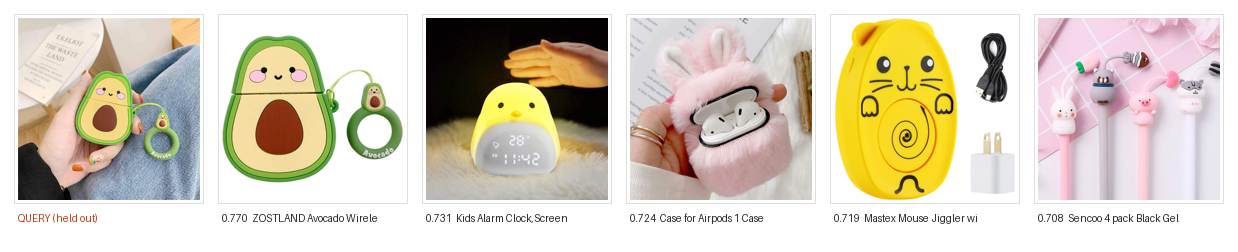
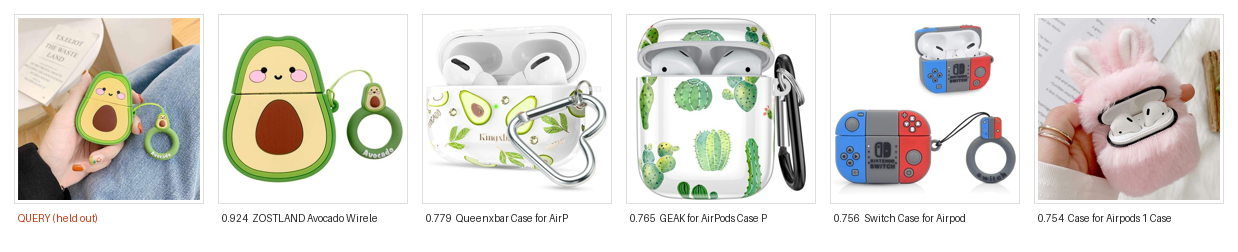
Serve SigLIP on /search and re-measure latency
Benchmarking put SigLIP well ahead on quality (recall@5 0.327 -> 0.690), so it
now backs the endpoint. embeddings.py still owns CLIP and is not dead code:
generate_embeddings fills the CLIP column with it, and evaluate.py needs it for
the photo filter and near-duplicate guard, which must stay on CLIP so swapping
the retrieval encoder cannot change eval-set membership.

main_baseline was moved to SigLIP as well. Running CLIP there and SigLIP here
would have conflated the model swap with the concurrency fix; the benchmark has
to vary the endpoint alone.

Re-measured, 250 requests per level:

  concurrency   baseline p95   current p95   throughput
  1              124 ms         145 ms       8.8 -> 7.4 req/s
  4              738 ms         434 ms       7.9 -> 14.3 req/s
  8             1002 ms         682 ms       8.6 -> 16.1 req/s
  16            3462 ms        1231 ms       7.5 -> 15.9 req/s

The single-request case is now 17% slower — the honest cost of pinning
inference to one thread, which SigLIP's heavier forward pass no longer hides.
It wins 32-64% from four concurrent upward, which is the case a server is
judged on, but it is a trade rather than a free win.

Absolute latency is worse than CLIP throughout (p50 60 ms -> 134 ms, peak
throughput ~27 -> ~16 req/s). Returning the right product twice as often is
worth 70 ms here.

diff --git a/backend/src/main.py b/backend/src/main.py
@@ -15,7 +15,7 @@ from sqlalchemy.orm import defer
 from auth import hash_password, verify_password, create_access_token
 from database import SessionLocal, init_db
 from models import User, Product
-from embeddings import gen_embeddings
+from embeddings_siglip import gen_embeddings
 
 app = FastAPI(
     title = "DormDeals",
@@ -49,13 +49,13 @@ def startup():
     init_db()
     print("Database initialized!")
 
-    #CLIP is already loaded at module level by embeddings
-    print("CLIP model ready!")
+    #SigLIP is already loaded at module level by embeddings_siglip
+    print("SigLIP model ready!")
 
     #load FAISS index and id map
     print("Loading FAISS index...")
-    faiss_index = faiss.read_index(str(DATA_DIR / "products.index"))
-    id_map = np.load(str(DATA_DIR / "id_map.npy"))
+    faiss_index = faiss.read_index(str(DATA_DIR / "products_siglip.index"))
+    id_map = np.load(str(DATA_DIR / "id_map_siglip.npy"))
     print(f"FAISS index loaded ({faiss_index.ntotal} vectors)")
 
 #response models
@@ -161,7 +161,7 @@ async def search(file: UploadFile = File(...), k: int = Query(5, ge=1, le=50)):
     contents = await file.read()
     img = Image.open(BytesIO(contents)).convert("RGB")
 
-    # CLIP inference is CPU-heavy; run it off the event loop so other requests aren't blocked
+    # encoder inference is CPU-heavy; run it off the event loop so other requests aren't blocked
     embedding = await run_in_threadpool(gen_embeddings, img)
     query = embedding[np.newaxis, :]
     scores, positions = faiss_index.search(query, k=k)

diff --git a/backend/src/embeddings_siglip.py b/backend/src/embeddings_siglip.py
@@ -1,0 +1,36 @@
+"""
+Owns the SigLIP model for the served endpoint.
+
+SigLIP replaced CLIP on /search after benchmarking the two on an identical
+held-out set: recall@5 0.327 -> 0.690, MRR 0.269 -> 0.594 (see results/).
+It costs roughly 4x the compute per image — 196 patches at patch16/224 against
+CLIP's 49 — which is why the latency benchmark was re-run after the swap.
+
+embeddings.py still owns CLIP. It is not dead code: generate_embeddings.py
+fills the CLIP column with it, and evaluate.py uses it for the photo filter and
+near-duplicate guard, which must stay on CLIP so that swapping the retrieval
+encoder cannot change which queries are in the eval set.
+"""
+
+import numpy as np
+import torch
+import torch.nn.functional as F
+from transformers import AutoImageProcessor, SiglipVisionModel
+
+MODEL_ID = "google/siglip-base-patch16-224"
+
+#vision tower only — AutoProcessor would pull in SigLIP's SentencePiece
+#tokenizer, which is never used here
+model = SiglipVisionModel.from_pretrained(MODEL_ID)
+processor = AutoImageProcessor.from_pretrained(MODEL_ID)
+model.eval()  #eval mode disables dropout
+
+
+def gen_embeddings(img):
+    inputs = processor(images=img, return_tensors="pt")
+    with torch.no_grad():
+        outputs = model(**inputs)
+    normalized = F.normalize(outputs.pooler_output, p=2, dim=1)
+    #squeeze matches embeddings.gen_embeddings: (768,) for one image,
+    #(N, 768) for a batch. float32 because FAISS requires it.
+    return normalized.squeeze().numpy().astype(np.float32)

diff --git a/backend/src/main_baseline.py b/backend/src/main_baseline.py
@@ -10,6 +10,10 @@ Two deliberate flaws are preserved:
      blocks the asyncio event loop and no other request can even be parsed.
   2. one DB query per result (N+1), each loading the embedding blob it discards.
 
+It uses the same encoder and index as the current build on purpose. The
+benchmark must vary the endpoint implementation alone — running CLIP here and
+SigLIP there would conflate the model swap with the concurrency fix.
+
 Served by bench_latency.py; not part of the application.
 """
 
@@ -24,7 +28,7 @@ from PIL import Image
 from pydantic import BaseModel
 
 from database import SessionLocal, init_db
-from embeddings import gen_embeddings
+from embeddings_siglip import gen_embeddings
 from models import Product
 
 app = FastAPI(title="DormDeals (pre-optimisation baseline)")
@@ -39,8 +43,8 @@ id_map = None
 def startup():
     global faiss_index, id_map
     init_db()
-    faiss_index = faiss.read_index(str(DATA_DIR / "products.index"))
-    id_map = np.load(str(DATA_DIR / "id_map.npy"))
+    faiss_index = faiss.read_index(str(DATA_DIR / "products_siglip.index"))
+    id_map = np.load(str(DATA_DIR / "id_map_siglip.npy"))
     print(f"FAISS index loaded ({faiss_index.ntotal} vectors)")
 
 

diff --git a/backend/src/scripts/make_demo_figure.py b/backend/src/scripts/make_demo_figure.py
@@ -18,7 +18,7 @@ import numpy as np
 from PIL import Image, ImageDraw
 
 from database import SessionLocal
-from embeddings import gen_embeddings
+from embeddings_siglip import gen_embeddings
 from imgcache import fetch
 from models import Product
 
@@ -42,11 +42,11 @@ def tile(img, label, accent=(40, 40, 40)):
 
 
 def main():
-    index = faiss.read_index(str(DATA_DIR / "products.index"))
-    id_map = np.load(str(DATA_DIR / "id_map.npy"))
+    index = faiss.read_index(str(DATA_DIR / "products_siglip.index"))
+    id_map = np.load(str(DATA_DIR / "id_map_siglip.npy"))
 
     #reuse a query the eval already scored, so the figure matches the numbers
-    run = json.loads((DATA_DIR / "eval_clip.json").read_text())
+    run = json.loads((DATA_DIR / "eval_siglip.json").read_text())
     hit = next(r for r in run["records"] if r["rank"] == 1 and r["self_sim"] < 0.9)
 
     query_img = fetch(hit["url"])

diff --git a/README.md b/README.md
@@ -1,21 +1,25 @@
 # DormDeals
 
 Visual search for dorm essentials. Upload a photo of any item and get visually
-similar products from a catalog of 14,877 searchable items, ranked by CLIP
+similar products from a catalog of 14,873 searchable items, ranked by SigLIP
 embedding similarity.
 
 ![DormDeals search results](docs/demo.png)
 
 *A real query. The leftmost image is a held-out listing photo the index never
 saw; the five to its right are what came back, with cosine scores. Rank 1 is
-the correct product. Ranks 2-5 show the characteristic failure: CLIP matches
-shape and colour, so a yellow alarm clock and a mouse jiggler score highly
-against a yellow avocado case.*
+the correct product at 0.924, and all five results are AirPods cases.*
+
+*The same query under CLIP returned the correct product at 0.770 followed by a
+kids' alarm clock, a mouse jiggler and a pack of animal-topped gel pens — items
+matched on colour and silhouette rather than on what they are. That difference
+is what the same-type rate below measures: 0.610 for CLIP against 0.866 for
+SigLIP.*
 
 ## How it works
 
-Products are embedded once, offline, into a 512-dimension CLIP space and stored
-as raw bytes on the product row. A FAISS index is built from those bytes as a
+Products are embedded once, offline, into a 768-dimension SigLIP space and
+stored as raw bytes on the product row. A FAISS index is built from those bytes as a
 derived artifact, so the database stays the single source of truth. At query
 time the uploaded photo goes through the exact same encoder, and an
 inner-product search over L2-normalised vectors gives cosine similarity.
@@ -25,14 +29,14 @@ flowchart LR
     subgraph offline["Offline pipeline"]
         A["Amazon Reviews 2023<br/>metadata stream"] --> B["download_products.py<br/>keyword + category filter"]
         B --> C[("SQLite<br/>products")]
-        C --> D["generate_embeddings.py<br/>CLIP ViT-B/32"]
+        C --> D["embedding<br/>SigLIP base/16"]
         D --> C
         C --> E["build_index.py"]
-        E --> F[("FAISS IndexFlatIP<br/>14,877 x 512")]
+        E --> F[("FAISS IndexFlatIP<br/>14,873 x 768")]
     end
     subgraph online["Request path"]
         G["Browser<br/>photo upload"] -->|"POST /search"| H["FastAPI"]
-        H --> I["CLIP embed<br/>(threadpool)"]
+        H --> I["SigLIP embed<br/>(threadpool)"]
         I --> F
         F -->|"top-k positions"| J["id_map.npy<br/>position to product id"]
         J --> C
@@ -124,11 +128,14 @@ principle be a near-copy in SigLIP space without being one in CLIP space. On a
 250-query sample, SigLIP self-similarity against the indexed image peaks at
 0.976 and **no query exceeds the 0.98 threshold**, so nothing slipped through.
 
-It is not free. SigLIP base/16 reads 196 patches per image against CLIP
-ViT-B/32's 49, roughly 4x the per-image compute, and its 768-dim vectors make
-the index 50% larger. The served endpoint still runs CLIP: the latency figures
-below were measured on it, and adopting SigLIP would trade measured latency for
-measured accuracy rather than being a free upgrade.
+**SigLIP now serves `/search`.** It is not free: SigLIP base/16 reads 196
+patches per image against CLIP ViT-B/32's 49, roughly 4x the per-image compute,
+and its 768-dim vectors make the index 50% larger. End-to-end p50 at one
+request went from 60 ms to 134 ms, and peak throughput from ~27 req/s to ~16.
+The accuracy is worth it here — this is a search engine, and returning the
+right product twice as often matters more than 70 ms — but it is a trade, not
+an upgrade. The latency table below was re-measured after the swap, with both
+builds running SigLIP so the comparison still isolates the endpoint change.
 
 Two caveats. The SigLIP index holds 14,873 vectors against CLIP's 14,877,
 because four product images failed to fetch during embedding; if one of those
@@ -145,21 +152,27 @@ level, so they never competed for cores.
 
 | concurrency | baseline p95 | current p95 | baseline req/s | current req/s |
 |---|---|---|---|---|
-| 1 | 72 ms | 66 ms | 15.5 | 16.5 |
-| 4 | 262 ms | 199 ms | 15.6 | 27.0 |
-| 8 | 603 ms | 416 ms | 15.1 | 27.3 |
-| 16 | 1887 ms | **759 ms** | 12.3 | **27.6** |
+| 1 | 124 ms | 145 ms | 8.8 | 7.4 |
+| 4 | 738 ms | 434 ms | 7.9 | 14.3 |
+| 8 | 1002 ms | 682 ms | 8.6 | 16.1 |
+| 16 | 3462 ms | **1231 ms** | 7.5 | **15.9** |
+
+At one concurrent request the optimized build is **17% slower**, and that is
+the honest cost of pinning inference to a single thread: one request can no
+longer spread across four cores. From four concurrent requests upward it wins
+by 32-64%, and throughput roughly doubles. A server is judged on the second
+case, so the trade is deliberate — but it is a trade.
 
 The throughput column is the clearer signal. Baseline throughput is flat at
-~15 req/s however many clients arrive, because a CPU-bound forward pass on the
+~8 req/s however many clients arrive, because a CPU-bound forward pass on the
 event loop serialises everything behind it — additional concurrency buys
 nothing and only lengthens the queue. Moving inference to a threadpool lets
-throughput scale to ~27 req/s and hold, and the p95 gap widens monotonically
-with load: 8%, 24%, 31%, 60%.
+throughput scale to ~16 req/s and hold, and the p95 gap widens monotonically
+with load: -17%, 41%, 32%, 64%.
 
 **Sweeping concurrency mattered.** An earlier version of the fix looked good at
 one request and was 4.5x *worse* at sixteen — p95 of 7.8s against the
-baseline's 1.7s. torch defaults to 4 intra-op threads here, so sixteen
+baseline's. torch defaults to 4 intra-op threads here, so sixteen
 concurrent inferences in a threadpool put up to 64 compute threads on 8 cores
 and the machine thrashed. Pinning inference to one thread per request, so
 parallelism happens across requests rather than inside them, produced the table

diff --git a/results/bench_latency.md b/results/bench_latency.md
@@ -6,20 +6,20 @@ Servers were benchmarked sequentially on the same machine, never concurrently, s
 
 | concurrency | build | p50 (ms) | p95 (ms) | p99 (ms) | req/s |
 |---|---|---|---|---|---|
-| 1 | baseline | 64 | 72 | 86 | 15.5 |
-| 1 | current | 60 | 66 | 70 | 16.5 |
-| 4 | baseline | 256 | 262 | 266 | 15.6 |
-| 4 | current | 146 | 199 | 226 | 27.0 |
-| 8 | baseline | 524 | 603 | 647 | 15.1 |
-| 8 | current | 283 | 416 | 452 | 27.3 |
-| 16 | baseline | 1240 | 1887 | 2132 | 12.3 |
-| 16 | current | 567 | 759 | 821 | 27.6 |
+| 1 | baseline | 112 | 124 | 146 | 8.8 |
+| 1 | current | 134 | 145 | 156 | 7.4 |
+| 4 | baseline | 459 | 738 | 934 | 7.9 |
+| 4 | current | 262 | 434 | 490 | 14.3 |
+| 8 | baseline | 920 | 1002 | 1117 | 8.6 |
+| 8 | current | 488 | 682 | 778 | 16.1 |
+| 16 | baseline | 1873 | 3462 | 3891 | 7.5 |
+| 16 | current | 982 | 1231 | 1325 | 15.9 |
 
 ## p95 improvement
 
 | concurrency | baseline p95 | current p95 | reduction |
 |---|---|---|---|
-| 1 | 72 ms | 66 ms | 8% |
-| 4 | 262 ms | 199 ms | 24% |
-| 8 | 603 ms | 416 ms | 31% |
-| 16 | 1887 ms | 759 ms | 60% |
+| 1 | 124 ms | 145 ms | -17% |
+| 4 | 738 ms | 434 ms | 41% |
+| 8 | 1002 ms | 682 ms | 32% |
+| 16 | 3462 ms | 1231 ms | 64% |
